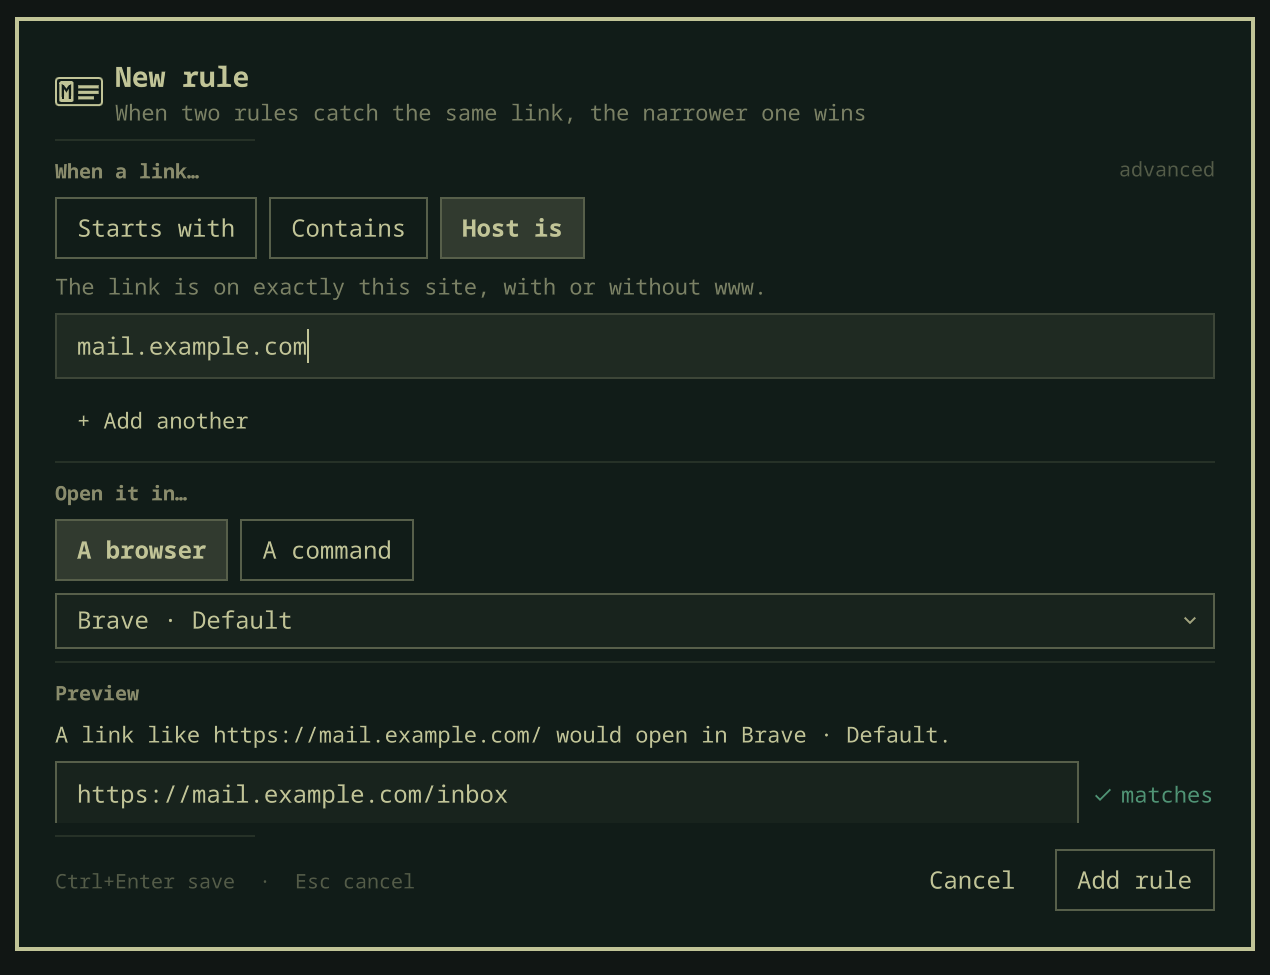
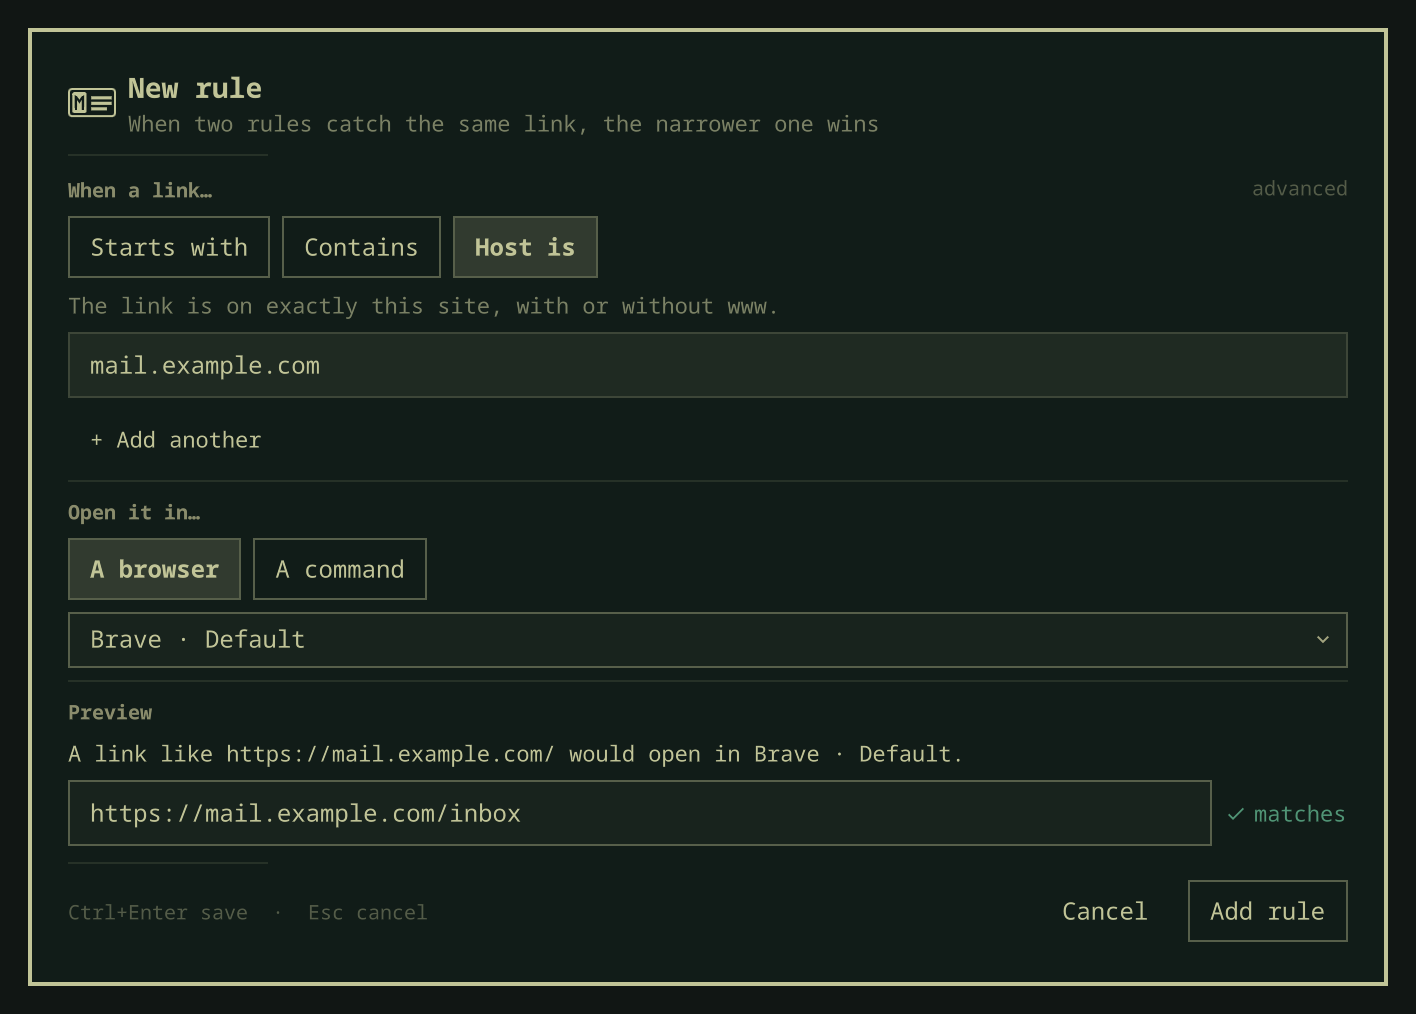
fix: size the rule form to its content instead of guessing
Adding the parts up by hand undercounted, because half the form is wrapping
Text whose implicitHeight only tells the truth once the width it wraps at is
settled. The card came out short and the preview ended up pressed against the
footer rule. The layout now reports its own implicitHeight, with the scroller
contributing its content height as a preferred size, so the card grows to fit
and stays right when the form changes.

Loosened the spacing between the three fixed regions — header, body, footer —
from md to lg, which is where the crowding actually showed. The rhythm between
fields inside the form is untouched. The card is also wider, which keeps the
preview prose off a third line.

601 logical tall now, against 710 available on the smaller 1280x720 output, so
neither screen scrolls. Past that the body scrolls with the header and buttons
pinned, which is what the split was already built for.

preview-form.png recaptured. The crop is derived from the card's left edge
mirrored about the centre of the output: Hyprland composites the pointer into
grim's frame and this version has no dispatcher to move it, so trimming to the
light pixels caught the cursor and inflated the frame.

diff --git a/RuleFormView.qml b/RuleFormView.qml
@@ -267,16 +267,22 @@ Item {
 
   // -------------------------------------------------------------------- ui
 
-  // What the card should be, so it hugs the form instead of leaving a lake of
-  // empty space under a short rule. The overlay caps it; past the cap the
-  // Flickable scrolls.
-  readonly property real desiredHeight:
-    headerRow.implicitHeight + body.implicitHeight + footerRow.implicitHeight
-    + Style.spacing.md * 4 + Style.space(2) * 2
+  // How tall the card should be. Adding the parts up by hand got this wrong:
+  // half the rows are wrapping Text, whose implicitHeight is only truthful once
+  // the width it wraps at is settled, so the sum came in short and the card
+  // squeezed the preview against the footer. Letting the layout report its own
+  // implicitHeight — with the scroller contributing its content height as a
+  // preferred size — is both accurate and self-maintaining.
+  implicitHeight: formLayout.implicitHeight
 
   ColumnLayout {
+    id: formLayout
     anchors.fill: parent
-    spacing: Style.spacing.md
+    // Looser than the rhythm inside the form on purpose: this spacing separates
+    // the three fixed regions — header, scrolling body, footer — and at `md`
+    // the footer rule sat almost against the test field. The rhythm between
+    // fields stays `md`, so the form itself reads the same.
+    spacing: Style.spacing.lg
 
     // ------------------------------------------------------------- header
     RowLayout {
@@ -317,6 +323,10 @@ Item {
     Flickable {
       Layout.fillWidth: true
       Layout.fillHeight: true
+      // Asks for exactly the content, so the card can grow to fit; fillHeight
+      // still lets it give the space back and scroll when the screen is the
+      // shorter of the two. Header and footer sit outside, so they stay put.
+      Layout.preferredHeight: body.implicitHeight
       contentWidth: width
       contentHeight: body.implicitHeight
       clip: true
@@ -619,6 +629,7 @@ Item {
     RowLayout {
       id: footerRow
       Layout.fillWidth: true
+      Layout.bottomMargin: Style.space(2)
       spacing: Style.space(8)
 
       Text {

diff --git a/Overlay.qml b/Overlay.qml
@@ -93,13 +93,23 @@ Item {
 
     BorderSurface {
       id: card
-      width: Math.min(Style.space(root.editing ? 620 : 520), panel.width - Style.gapsOut * 2)
+      // The form is wider than the picker: it carries a matcher row, a
+      // destination row, and preview prose, and the extra width is what keeps
+      // the prose from wrapping into a third line and the card from growing
+      // taller to compensate.
+      width: Math.min(Style.space(root.editing ? 680 : 520), panel.width - Style.gapsOut * 2)
 
       // The picker is a list and wants a fixed, generous height. The form is a
-      // document: it should be exactly as tall as it needs, up to a cap.
+      // document: exactly as tall as its content, insets included, so nothing
+      // has to scroll on a screen with the room for it.
+      //
+      // The clamp against panel.height is what makes the small monitor work:
+      // 1280x720 logical leaves 710, and if the form wants more than that it
+      // gives the difference back to its scroller rather than growing off
+      // screen. The floor keeps a half-filled form from looking collapsed.
       readonly property real formHeight: Math.max(
-        Style.space(380),
-        Math.min(Style.space(700), form.desiredHeight + card.padding * 2))
+        Style.space(360),
+        form.implicitHeight + card.contentTopInset + card.contentBottomInset)
 
       height: Math.min(
         root.editing ? formHeight : Style.space(540),
